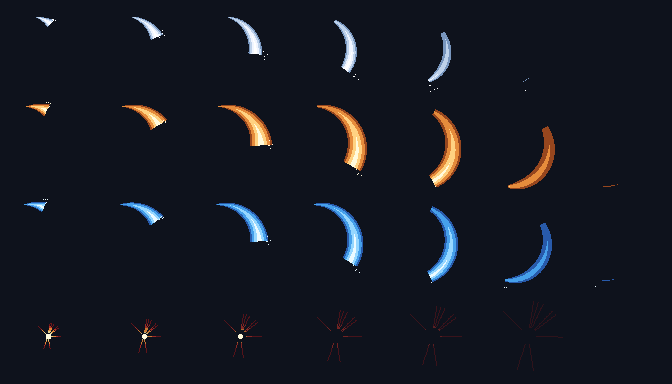
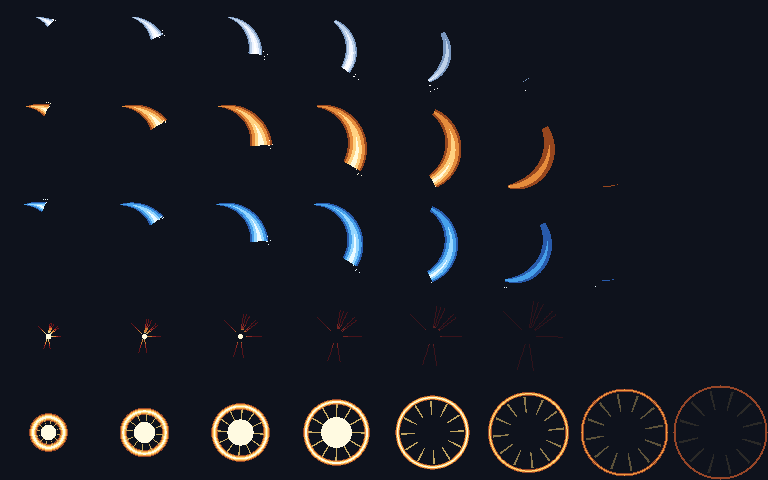
Godot: Q Soul Burst with FX, cooldowns and HUD overlays; combat test for burst

diff --git a/AshenVeil_Python/tools/gen_slash_fx.py b/AshenVeil_Python/tools/gen_slash_fx.py
@@ -86,13 +86,39 @@ def impact_sheet(frames=6, pal=((255, 230, 150), (255, 150, 60), (200, 50, 40), 
     return sheet
 
 
+def burst_sheet(frames=8, pal=((255, 250, 225), (255, 215, 120), (240, 150, 60), (150, 70, 40))):
+    """Expanding gold ring (Soul Burst), centred in each 96px frame. Scale up in game for a bigger blast."""
+    sheet = np.zeros((FRAME, FRAME * frames, 4), np.uint8)
+    yy, xx = np.mgrid[0:FRAME, 0:FRAME].astype(float)
+    dist = np.hypot(xx - FRAME / 2, yy - FRAME / 2)
+    ang = np.arctan2(yy - FRAME / 2, xx - FRAME / 2)
+    for f in range(frames):
+        t = (f + 1) / frames
+        r = 6 + 40 * t ** 0.7
+        thick = 7 * (1 - t) + 2
+        ring = np.abs(dist - r) <= thick / 2
+        core = np.clip(1 - np.abs(dist - r) / (thick / 2), 0, 1)
+        spokes = (np.abs(np.sin(ang * 6 + t * 3)) > 0.985) & (dist < r * 0.92) & (dist > r * 0.5)
+        glow = (dist < r * 0.5) & (t < 0.6)
+        fade = 1.0 - max(0.0, (t - 0.6) / 0.4) * 0.85
+        frame = np.zeros((FRAME, FRAME, 4), np.uint8)
+        lvl = np.minimum(((1 - core * fade) * len(pal)).astype(int), len(pal) - 1)
+        for i, col in enumerate(pal):
+            frame[ring & (lvl == i)] = (*col, 255)
+        frame[spokes] = (*pal[1], int(200 * fade))
+        frame[glow] = (*pal[0], 255)
+        sheet[:, f * FRAME:(f + 1) * FRAME] = frame
+    return Image.fromarray(sheet, "RGBA")
+
+
 def main():
     OUT.mkdir(parents=True, exist_ok=True)
     for name, args in SLASHES.items():
         slash_sheet(*args).save(OUT / f"{name}.png")
     impact_sheet().save(OUT / "impact_spark.png")
+    burst_sheet().save(OUT / "soul_burst.png")
     # contact sheet for quick review (dark background)
-    names = list(SLASHES) + ["impact_spark"]
+    names = list(SLASHES) + ["impact_spark", "soul_burst"]
     imgs = [Image.open(OUT / f"{n}.png") for n in names]
     w = max(i.width for i in imgs)
     prev = Image.new("RGBA", (w, FRAME * len(imgs)), (14, 18, 28, 255))

diff --git a/docs/PROGRESS.md b/docs/PROGRESS.md
@@ -14,6 +14,7 @@ Priority: SAVE PROGRESS > MANY FEATURES. Commit and push after every small step.
 - Godot step 3 done: `godot/room.gd` builds the first room in code (5 parallax layers from `assets/parallax/`, tiled stone floor, 5 one-way platforms, 7 torches with flickering PointLight2D, banners, statue, ladder, chains, CanvasModulate dusk tint). Camera zoom 1.25. Headless test 14/14. Rendered screenshot: `docs/room_preview.png` (made with `xvfb-run -a godot --rendering-driver opengl3 --resolution 1280x720 --path godot --script res://tests/screenshot.gd -- out.png`).
 - Godot step 4 done: `godot/hud.gd` (code-drawn HUD in Cinzel: portrait + level, HP/FP bars, 5-slot hotbar LMB/RMB/Shift/E/Q, souls counter, minimap with area name). Player stats in `player.gd` (hp 320, fp 120, skill costs 20 FP, FP regen, `hurt(amount)`). Chains no longer poke into the floor. Tests 15/15.
 - Godot step 5 done: enemies (`enemy.gd`, configs for skeleton / shield_skeleton / archer / armored_knight; patrol -> chase -> attack, hurt, death, souls), `arrow.gd`, `sheet_util.gd`; player melee hit detection with slash FX + impact sparks + damage numbers; i-frames after being hit; death reloads the scene after 2.5 s. Room spawns 5 enemies. Tests: `tests/test_player.gd` 14/14, `tests/test_combat.gd` 9/9. Combat screenshot: `xvfb-run -a godot --rendering-driver opengl3 --resolution 1280x720 --path godot --script res://tests/screenshot.gd -- out.png combat`.
+- Godot step 6 done: Q Soul Burst (40 FP, 70 damage in a 110px radius, 0.5 s invulnerable while charging, burst FX `soul_burst.png`), cooldowns (dodge 0.8 s, heavy 1.2 s, skill 2 s, burst 4 s) with dark overlays and a blue 'not enough FP' tint on the hotbar. Tests 14/14 + 10/10. Screenshot tool gained `burst` mode (use physics-synced input; wait 2 rendered frames before capture).
 
 ## Decision
 Port to Godot 4 (GDScript) for 2D lights, parallax, particles and shaders. Python version stays as a fallback.
